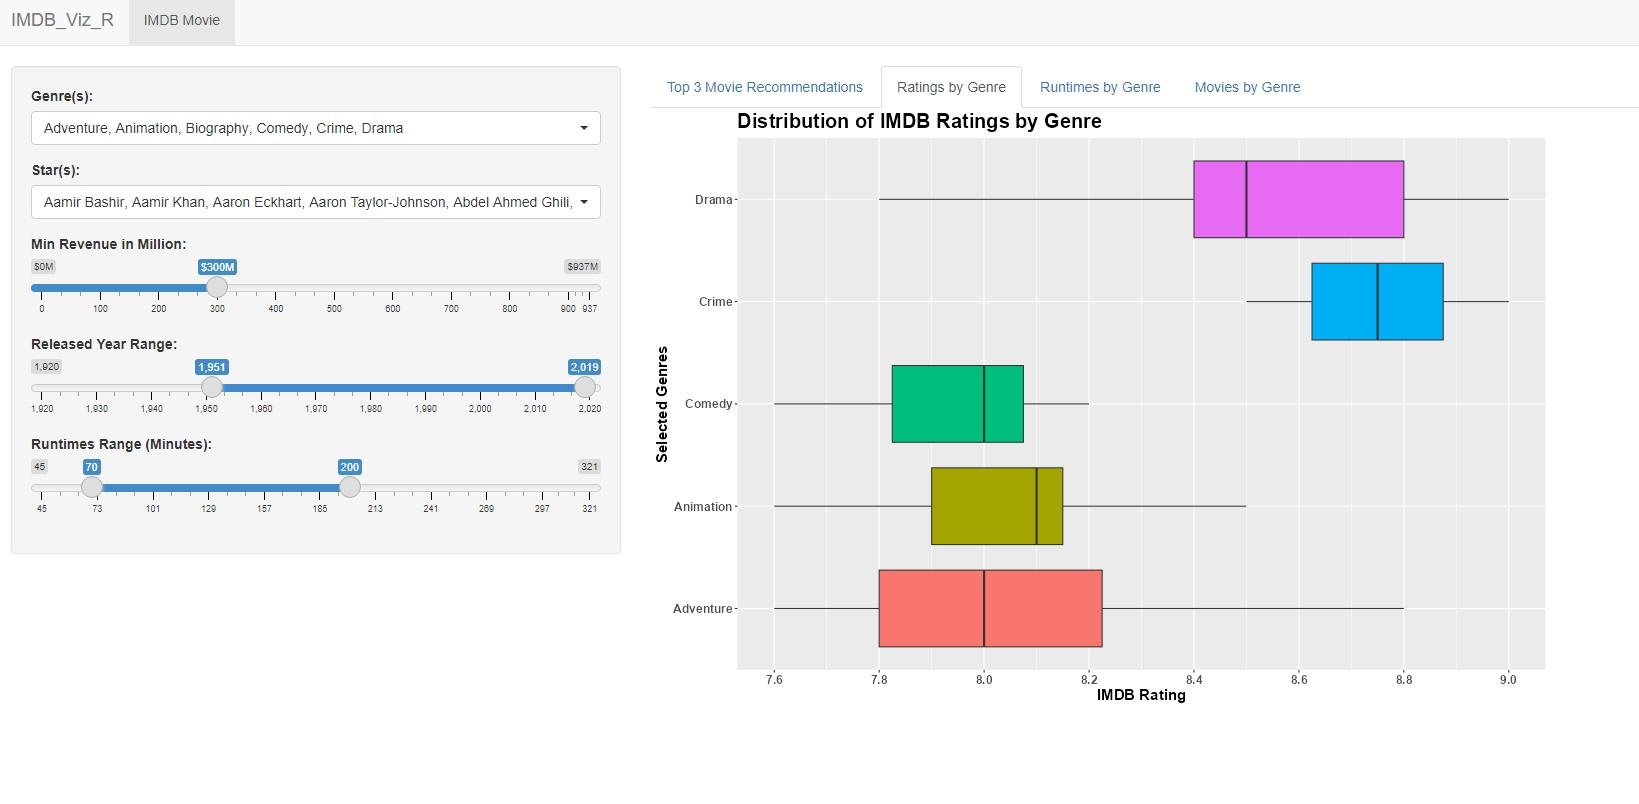
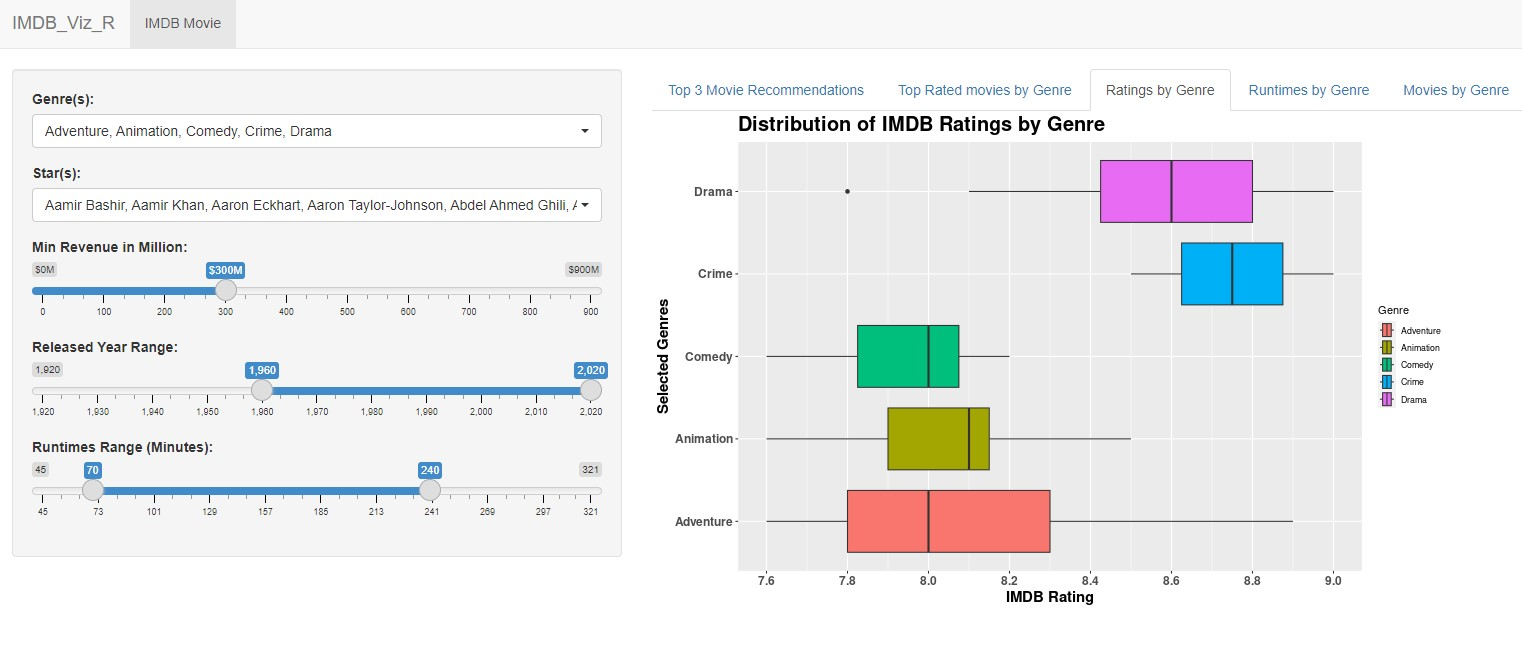
Add description of new plot and update all app images

diff --git a/README.md b/README.md
@@ -35,13 +35,14 @@ Choosing a good movie to watch can be a struggle sometimes and there's almost no
 
 Our dashboard contains a landing page that recommends 3 movies for users based on their preferences. Users can use drop-down lists on the left-side of the page to select multiple genres, and actors of interest, as well as sliders to indicate the minimum Gross Revenue, release year range, and runtime range they prefer. The thumbnail, title, and a short summary are shown for each of the 3 movies in the main panel of the page.
 
-Our dashboard also contains 3 additional tabs each containing a reactive plot to help users visualize their movie preferences based on the same filters applied on the `Top 3 Movie Recommendation page`:
+Our dashboard also contains 4 additional tabs each containing a reactive plot to help users visualize their movie preferences based on the same filters applied on the `Top 3 Movie Recommendation page`:
 
+- `Top Rated movies by Genre`: A bar chart that lists the top 5 highest rated movies for the primary selected genre
 - `Ratings by Genre`: A boxplot that shows the distribution of IMDB ratings by selected genres
 - `Runtimes by Genre`: A boxplot that shows the distribution of runtime by selected genres
 - `Movies by Genre`: A bar chart that shows the number of movies by selected genres
 
-The boxplots and bar chart are coloured by genres and will update as the user varies their selections via the drop-down lists and sliders on the left-side of the page.
+The boxplots and `Movies by Genre` bar chart are coloured by genres and will update as the user varies their selections via the drop-down lists and sliders on the left-side of the page.  
 
 This dashboard is aimed at providing users with an easy-to-use and efficient way to find and select the movies they'll love.
 
@@ -66,6 +67,8 @@ Interested in contributing? Check out the [contributing guidelines](https://gith
 ## App Images
 
 <img src="images/Recommendations.JPG"/>
+
+<img src="images/Top_5_Movies.JPG"/>
 
 <img src="images/Ratings_Plot.JPG"/>
 
